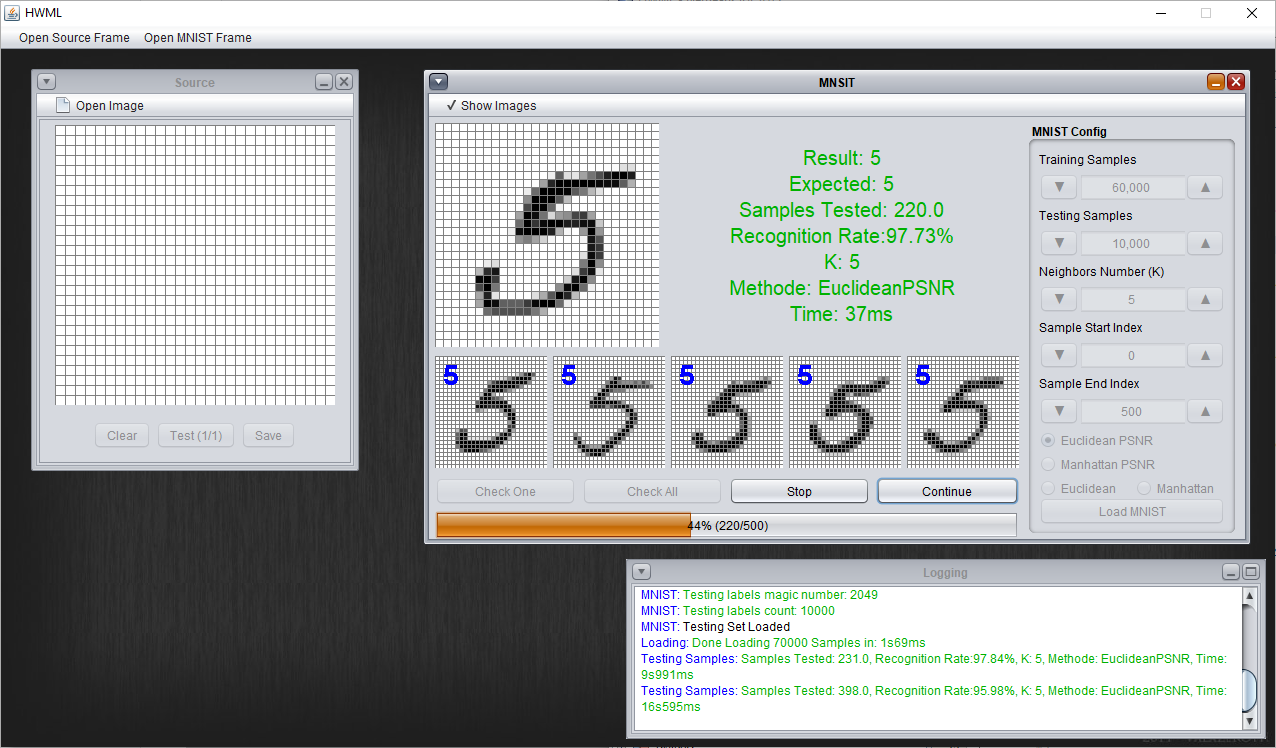
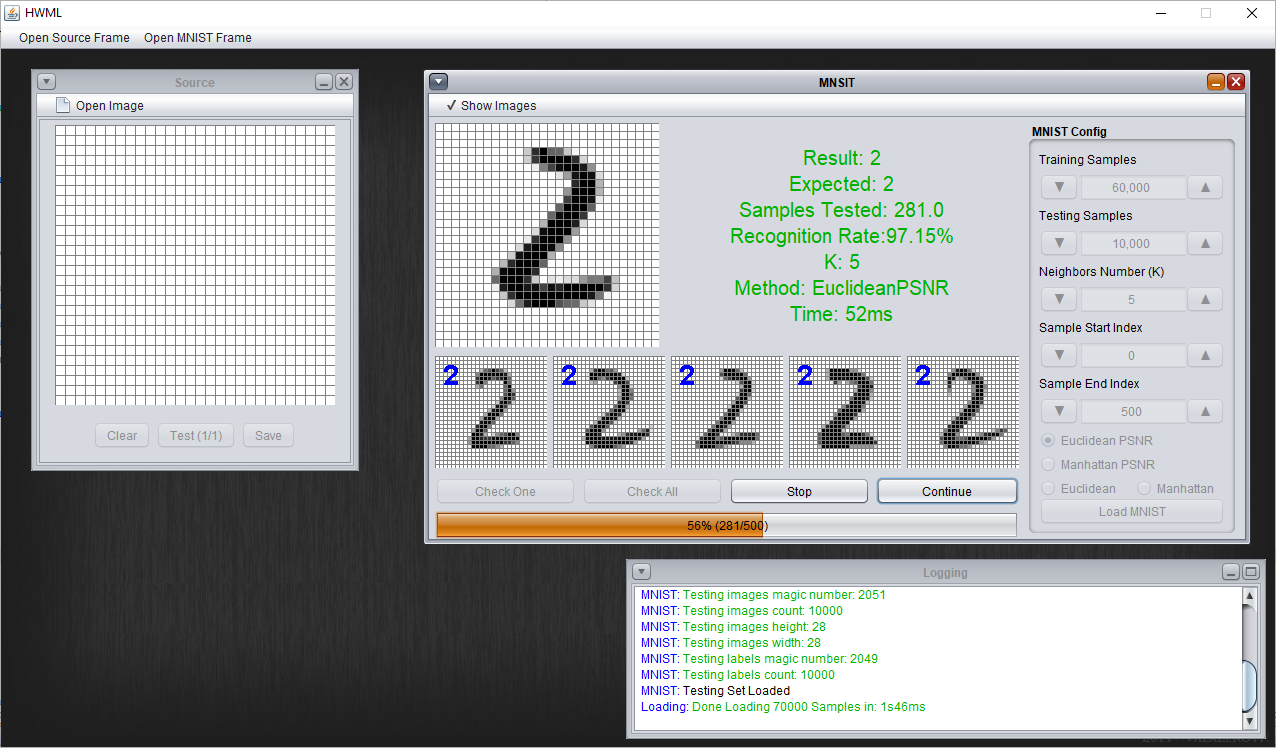
Update the screenshot

diff --git a/src/GUI/MnistIFrame.java b/src/GUI/MnistIFrame.java
@@ -483,7 +483,7 @@ public class MnistIFrame extends JInternalFrame {
                 + separator
                 + "K: " + knn.getK()
                 + separator
-                + "Methode: " + knn.getMethod().name()
+                + "Method: " + knn.getMethod().name()
                 + separator
                 + "Time: " + time;
     }

diff --git a/README.md b/README.md
@@ -1,7 +1,7 @@
 # HandWrittenDigits
 > A simple handwritten digit recognition application.
 
-Written in java/swing. Using k-nearest neighbors algorithm with Euclidean or Manhattan distance methods and trained with MNIST dataset of handwritten digits [website](http://yann.lecun.com/exdb/mnist/).
+Written in java/swing. Using k-nearest neighbors algorithm with Euclidean or Manhattan distance methods and trained with [MNIST dataset of handwritten digits](http://yann.lecun.com/exdb/mnist/).
 
 ![](screenshot.png)
 
